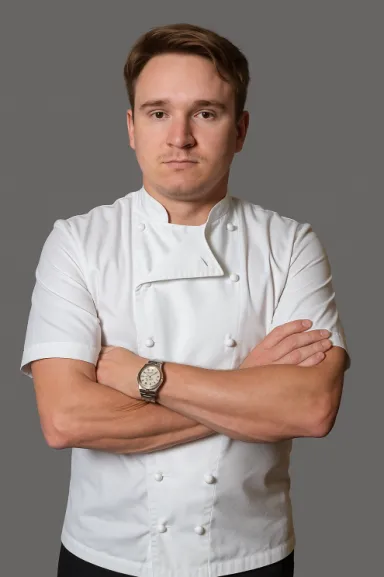
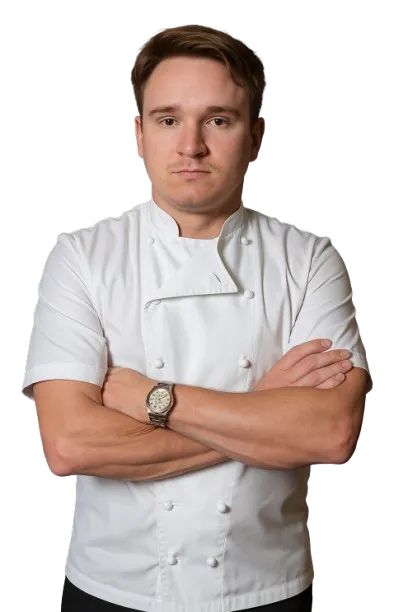
New Styling

diff --git a/client/src/views/customer/Home.jsx b/client/src/views/customer/Home.jsx
@@ -18,9 +18,9 @@ const Home = () => {
     <>
       <div className="max-w-7xl mx-auto px-4 relative">
         {/* Main banner */}
-        <div className="grid grid-cols-2 bg-[#686563]">
+        <div className="grid grid-cols-2 bg-orange-50">
           <div className="text-center justify-center flex items-center">
-            <h2 className="text-m sm:text-3xl lg:text-3xl font-bold p-auto text-white px-5">
+            <h2 className="text-m sm:text-3xl lg:text-3xl font-bold p-auto  px-5">
               {finnish
                 ? '“Restauranto on paikka, jossa hyvä ruoka ja hyvä fiilis kulkevat käsi kädessä – tule herkuttelemaan ja viihtymään.”'
                 : '“Restauranto is a place where great food and good vibes go hand in hand – come enjoy, relax, and treat yourself.”'}

diff --git a/client/src/components/customer/Footer/Footer.jsx b/client/src/components/customer/Footer/Footer.jsx
@@ -10,7 +10,7 @@ const Footer = () => {
   return (
     <>
       {/*<footer className="px-4 divide-y dark:bg-gray-100 dark:text-gray-800" >*/}
-      <footer className="px-4 divide-y bg-gray-800 text-gray-300 py-8">
+      <footer className="px-4 divide-y bg-[#1D3557] text-gray-300 py-8">
         <div className="max-w-7xl mx-auto container flex flex-col justify-between py-10 space-y-8 lg:flex-row lg:space-y-0">
           <div className="lg:w-1/3">
             <Link

diff --git a/client/src/components/customer/Header/HeaderNV.jsx b/client/src/components/customer/Header/HeaderNV.jsx
@@ -89,7 +89,7 @@ const HeaderNV = () => {
     <header className="fixed w-full z-50">
       <nav className="relative">
         {/* NavBar */}
-        <div className=" bg-gray-800">
+        <div className=" bg-[#1D3557]">
           <div className="max-w-7xl mx-auto px-2 sm:px-6 lg:px-8">
             {/* NavBar items */}
             <div className="relative flex h-22  items-center justify-between">

diff --git a/client/src/components/Layout.jsx b/client/src/components/Layout.jsx
@@ -67,7 +67,7 @@ const Layout = () => {
 
     <>
       <HeaderNV />
-      <main className="pt-22  bg-[repeating-linear-gradient(-45deg,rgba(255,255,255,0.08)_0_2px,transparent_2px_12px)] bg-[#2c5c42]">
+      <main className="pt-22  bg-white">
         {/* Adds little space so header wont take space from pages. */}
         <Outlet />
       </main>
